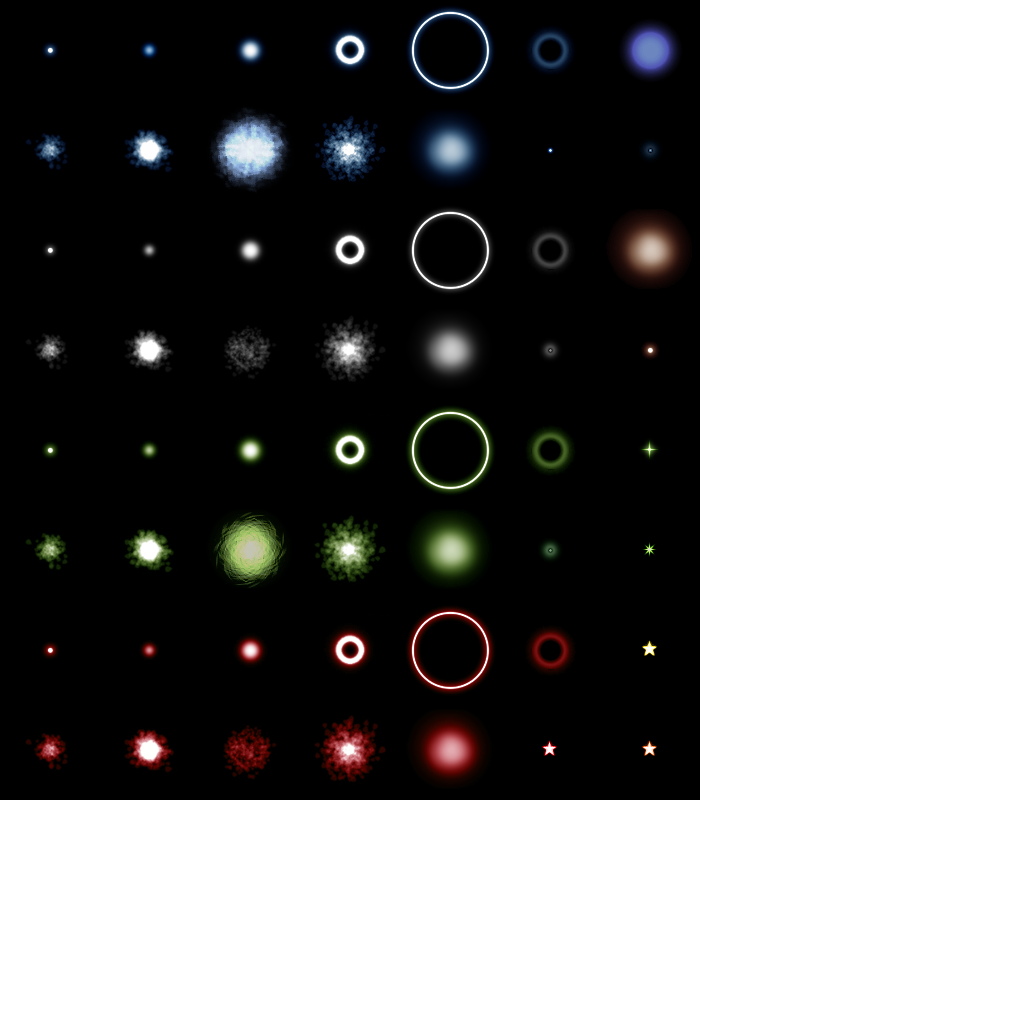
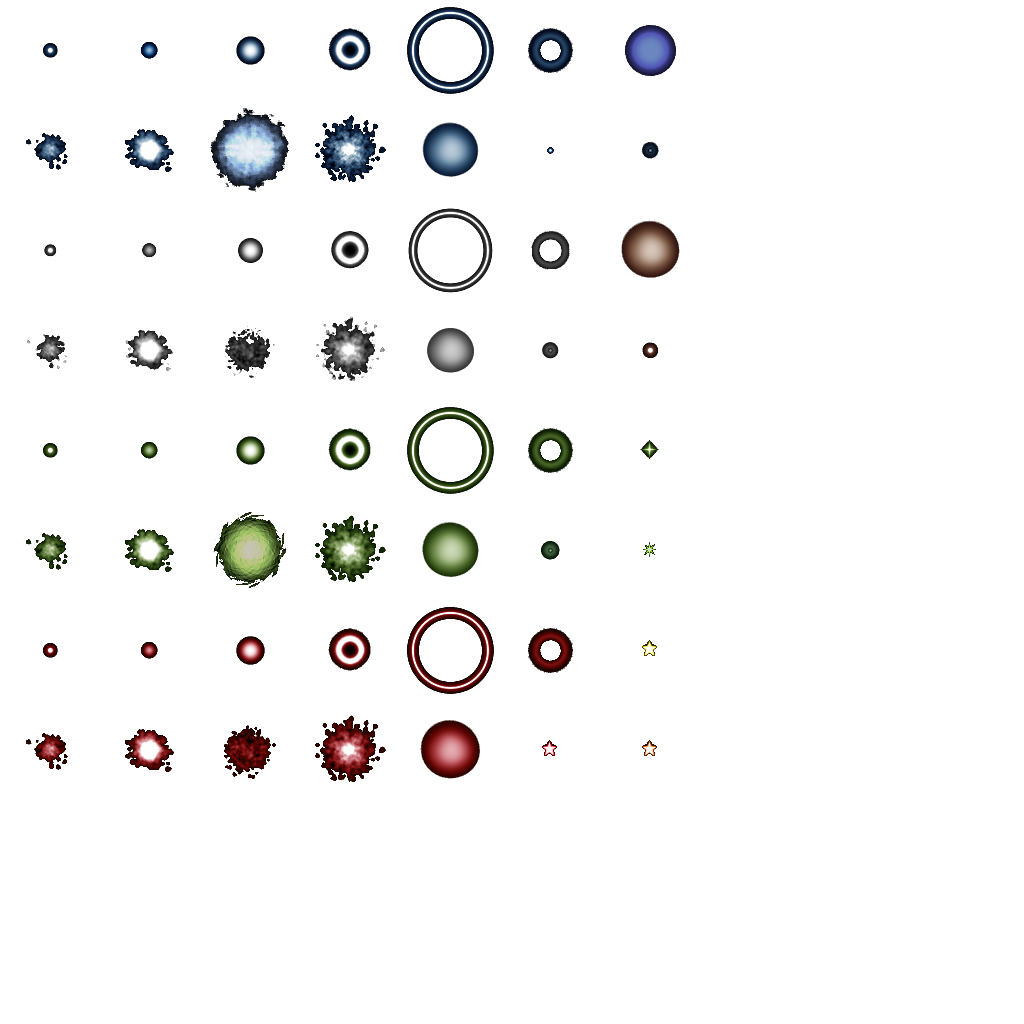
effect 追加

diff --git a/src/Particle.cpp b/src/Particle.cpp
@@ -6,19 +6,21 @@ using namespace ci::app;
 Particle::Particle(gl::Texture texture, Vec3f pos) :speed(0.5f) {
 	image = texture;
 
-	for (int i = 0; i < 30; ++i) {
+	for (int i = 0; i < MAX; ++i) {
 		position[i] = pos;
-		angle[i] = randVec3f() * 1.f;
+		angle[i] = Vec3f(randFloat(-1.f, 1.f), randFloat(-1.f, 1.f), randFloat(-1.f, 1.f));
 	}
 
 	surviveTime = 60;
+
+	data = new int[MAX];
 }
 
 Particle::~Particle() {
-
+	delete data;
 }
 
-void Particle::drawBillboardTexture(const Vec3f& pos, const Vec2f& scale, float rotationDegrees,
+void Particle::DrawBillboardTexture(const Vec3f& pos, const Vec2f& scale, float rotationDegrees,
 	const Vec3f& bbRight, const Vec3f& bbUp, const gl::Texture& texture, const Area& area) {
 	texture.enableAndBind();
 
@@ -53,15 +55,56 @@ void Particle::drawBillboardTexture(const Vec3f& pos, const Vec2f& scale, float 
 	texture.disable();
 }
 
-void Particle::UpDate(const Matrix44f& m, const Vec3f& r, const Vec3f& u) {
-	mat = Matrix44f::identity();
-	//mat.invert();
-	right = mat.transformVec(r);
-	up = mat.transformVec(u);
+void Particle::Swap(int *a, int *b) {
+	int n = *a; *a = *b; *b = n;
+}
 
-	for (int i = 0; i < 30; ++i) {
+void Particle::QuickSort(int *s, int *e) {
+	if (s == e)return;
+
+	int pivot = *s;
+
+	int *p1 = s, *p2 = e;
+
+	while (true)
+	{
+		if (*p1 >= pivot && *p2 < pivot) {
+			Swap(p1, p2);
+		}
+
+		if (*p1 < pivot) {
+			++p1;
+			if(p1 == p2)break;
+		}
+
+		if (*p2 >= pivot) {
+			--p2;
+			if (p1 == p2)break;
+		}
+	}
+
+	if (p1 != s && *p1 >= pivot)--p1;
+	else if (p2 != e)++p2;
+
+	QuickSort(s, p1);
+	QuickSort(p2, e);
+}
+
+void Particle::UpDate(const Vec3f& pos, const Vec3f& r, const Vec3f& u) {
+	right = Matrix44f::identity().transformVec(r);
+	up = Matrix44f::identity().transformVec(u);
+
+	for (int i = 0; i < MAX; ++i) {
 		position[i] += angle[i] * speed;
 	}
+
+	for (int i = 0; i < MAX; ++i) {
+		data[i] = position[i].z - pos.z;
+	}
+
+	QuickSort(&data[0], &data[MAX - 1]);
+
+	
 
 	surviveTime -= 1;
 }
@@ -70,12 +113,15 @@ void Particle::Draw() {
 	gl::enableAlphaBlending();
 
 	const int cut = 100;
-	int index = 10 - surviveTime / 6;
+	/*const int index = 10 - surviveTime / 6;
 	int tx = (index % 7) * cut;
 	int ty = (index / 7) * cut;
+*/
+	int tx = 4 * cut;
+	int ty = 0;
 
-	for (int i = 0; i < 30; ++i) {
-		drawBillboardTexture(position[i], /*scale = */ Vec2f(5.f, 5.f), /*rotationDegree = */0,
+	for (int i = 0; i < MAX; ++i) {
+		DrawBillboardTexture(position[i], /*scale = */ Vec2f(5.f, 5.f), /*rotationDegree = */0,
 			right, up, image, Area(tx, ty, tx + cut, ty + cut));
 	}
 

diff --git a/src/TemplateProjectApp.cpp b/src/TemplateProjectApp.cpp
@@ -19,7 +19,7 @@ void TemplateProjectApp::setup()
 	camera1 = new GameCamera(player->GetPos(), getWindowWidth(), getWindowHeight());
 	ui = new UI(getWindowWidth(), getWindowHeight());
 
-	for (int i = 1; i < 100; ++i)
+	for (int i = 1; i < enemyMaxNum; ++i)
 		boids.push_back(Boid(enemyVboMesh));
 
 	gl::enable(GL_COLOR_MATERIAL);
@@ -62,18 +62,18 @@ void TemplateProjectApp::update()
 			itr = bullets.erase(itr);
 			itr2 = boids.erase(itr2);
 			ui->PlusScore(100);
-
-			if (boids.size() > enemyMaxNum)continue;
-			//boids.push_back(Boid(enemyVboMesh, itr2->GetPosition()));
 		}
 	}
 
 	for (auto itr = particles.begin(); itr != particles.end(); ++itr) {
-		itr->UpDate(camera1->GetMatrix(), camera1->getRight(), camera1->getUp());
+		itr->UpDate(camera1->GetPosition(), camera1->GetRight(), camera1->GetUp());
 
 		if (itr->IsDead())
 			itr = particles.erase(itr);
 	}
+
+	if (boids.size() > enemyMaxNum) return;
+	boids.push_back(Boid(enemyVboMesh));
 }
 
 void TemplateProjectApp::draw()

diff --git a/src/Particle.h b/src/Particle.h
@@ -7,8 +7,10 @@
 
 class Particle {
 private:
-	ci::Vec3f position[30];
-	ci::Vec3f angle[30];
+	static const int MAX = 30;
+
+	ci::Vec3f position[MAX];
+	ci::Vec3f angle[MAX];
 	const float speed;
 
 	ci::Vec3f right, up;
@@ -18,14 +20,19 @@ private:
 
 	ci::gl::Texture image;
 
+	int *data;
+
 public:
 	Particle(ci::gl::Texture texture, ci::Vec3f pos);
 	~Particle();
 
-	void drawBillboardTexture(const ci::Vec3f& pos, const ci::Vec2f& scale, float rotationDegrees,
+	void DrawBillboardTexture(const ci::Vec3f& pos, const ci::Vec2f& scale, float rotationDegrees,
 		const ci::Vec3f& bbRight, const ci::Vec3f& bbUp, const ci::gl::Texture& texture, const ci::Area& area);
 
-	void UpDate(const ci::Matrix44f& m, const ci::Vec3f& r, const ci::Vec3f& u);
+	void Swap(int*, int*);
+	void QuickSort(int *s, int *e);
+
+	void UpDate(const ci::Vec3f& pos, const ci::Vec3f& r, const ci::Vec3f& u);
 	void Draw();
 	bool IsDead();
 };

diff --git a/src/GameCamera.cpp b/src/GameCamera.cpp
@@ -13,9 +13,12 @@ GameCamera::GameCamera(Vec3f targetPos, int windowWidth, int windowHeight) {
 	cameraCurrentPosition = position;
 	rotationSpeed = 3.f;
 	limitAngle = 45.f;
+	matrix = Matrix44f::identity();
 
 	right = Vec3f(0, 0, 0);
 	up = Vec3f(0, 0, 0);
+
+	viewMatrix = Matrix44f::identity();
 
 	camera = CameraPersp(windowWidth, windowHeight, fov, 0.1f, 100.f);
 	camera.setEyePoint(position);
@@ -43,6 +46,7 @@ void GameCamera::UpDate(Vec3f targetPos) {
 	camera.setCenterOfInterestPoint(t + Vec3f(0.f, 2.f, 0.f));
 
 	camera.getBillboardVectors(&right, &up);
+	viewMatrix = camera.getModelViewMatrix();
 }
 
 void GameCamera::Draw() {

diff --git a/src/GameCamera.h b/src/GameCamera.h
@@ -24,26 +24,30 @@ private:
 	ci::Matrix44f matrix;
 
 	ci::Vec3f right, up;
+	ci::Matrix44f viewMatrix;
 
 public:
 	GameCamera(ci::Vec3f, int, int);
 	~GameCamera();
 
+	void UpDate(ci::Vec3f targetPos);
+	void Draw();
+
+	ci::Vec3f GetPosition() {
+		return position;
+	}
+
 	ci::Matrix44f GetMatrix() {
 		return matrix;
 	};
 
-	ci::Vec3f getRight() {
+	ci::Vec3f GetRight() {
 		return right;
 	}
-	ci::Vec3f getUp() {
+	ci::Vec3f GetUp() {
 		return up;
 	}
-
-	ci::Vec3f GetPosition() {
-		return this->position;
+	ci::Matrix44f GetViewMatrix() {
+		return viewMatrix;
 	}
-
-	void UpDate(ci::Vec3f targetPos);
-	void Draw();
 };

diff --git a/src/Boid.cpp b/src/Boid.cpp
@@ -15,6 +15,10 @@ Boid::Boid(ci::gl::VboMeshRef vbo, Vec3f pos) :Boid(vbo) {
 	position = pos;
 }
 
+Boid::~Boid() {
+
+}
+
 bool Boid::OutOfViewRange(Boid& boid, float viewAngleRange, float viewDistanceRange) {
 	Vec3f neighbors = (boid.position - position).normalized();
 

diff --git a/src/TemplateProjectApp.h b/src/TemplateProjectApp.h
@@ -38,8 +38,6 @@ class TemplateProjectApp : public ci::app::AppNative,JoyController {
 	const int enemyMaxNum = 100;
 	int shotTime = 0;
 
-	const int particleMaxNum = 30;
-
 	ci::TriMesh enemyMesh;
 	ci::gl::VboMeshRef enemyVboMesh;
 

diff --git a/src/Boid.h b/src/Boid.h
@@ -31,6 +31,7 @@ protected:
 public:
 	Boid(ci::gl::VboMeshRef);
 	Boid(ci::gl::VboMeshRef, ci::Vec3f);
+	~Boid();
 
 	ci::Vec3f GetPosition() {
 		return position;
